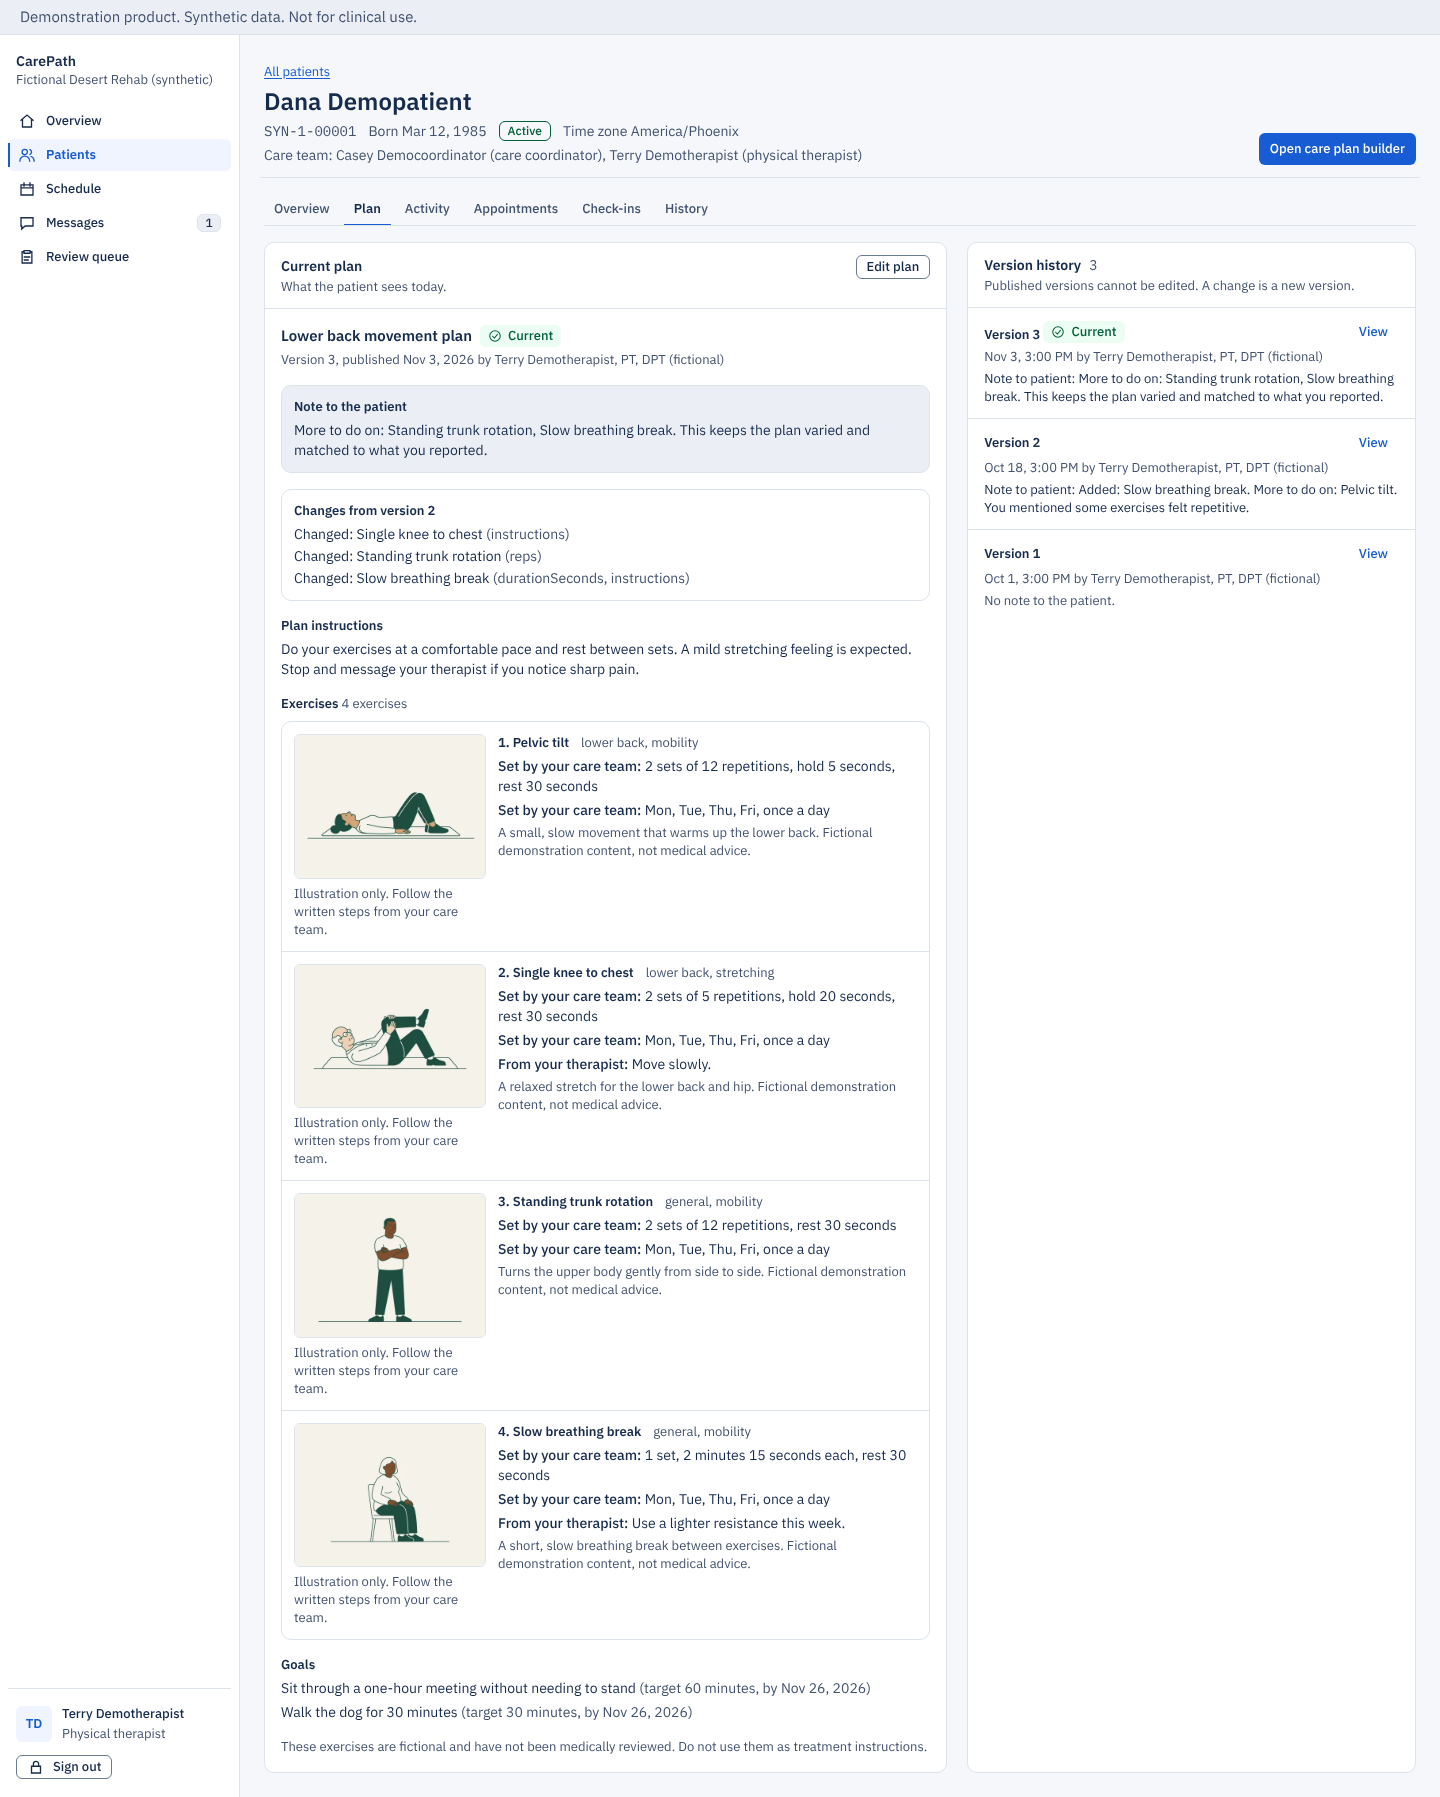
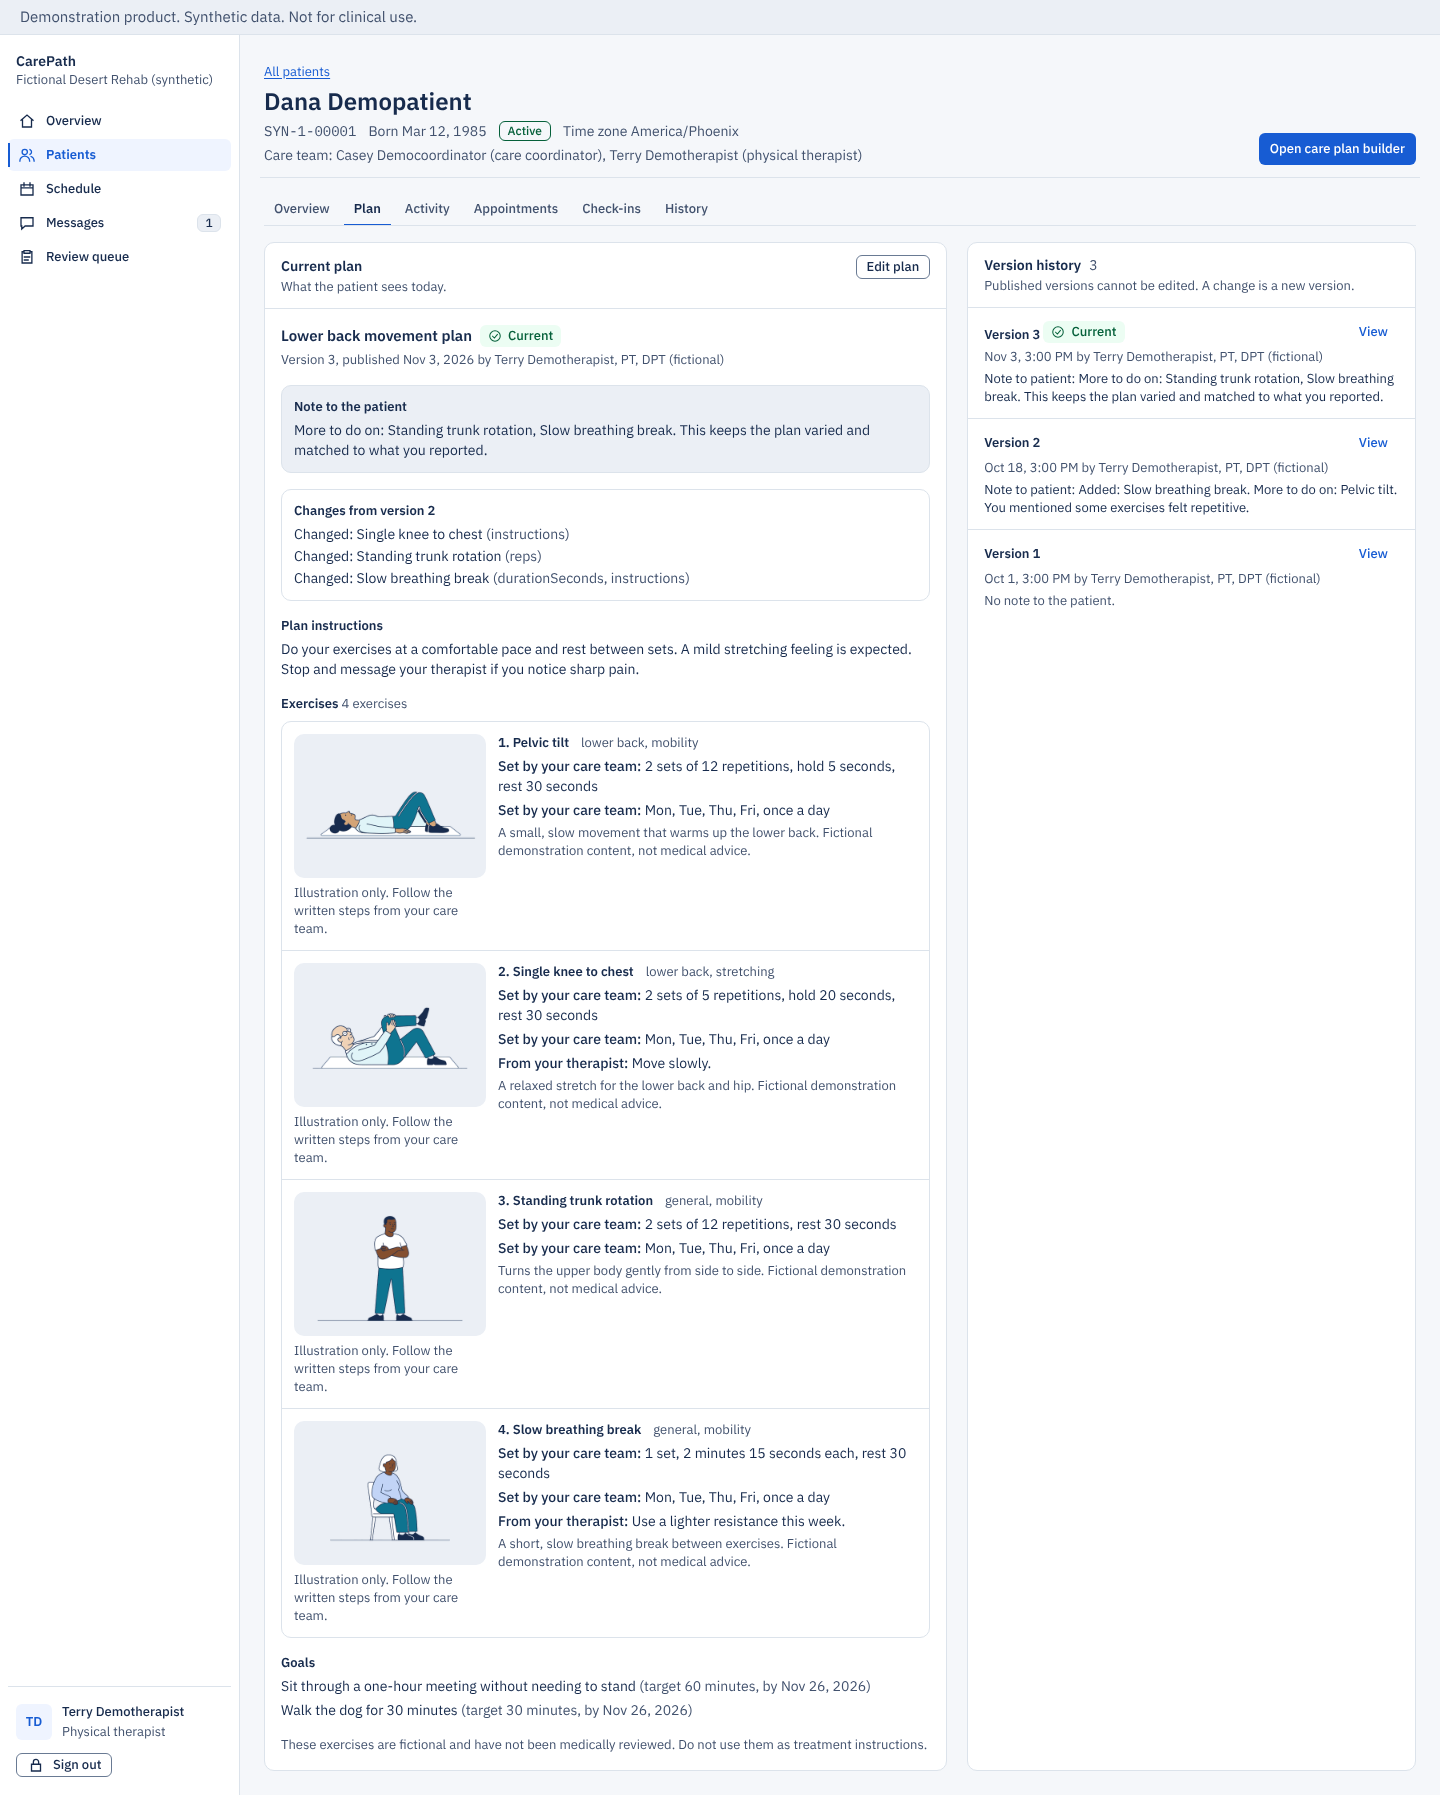
docs: D-WP-1 progress and gate output; after-set from the gate run
docs/design/after/d-wp-1 is replaced by the capture the passing gate made
on this branch (after the rebase on D-WP-7, so the illustrations are the
transparent ones). Same command, seed anchor and fixed clock.

Claude-Session: https://claude.ai/code/session_014v9e5gMfiV1hcVwHeYzrH2

diff --git a/docs/PROGRESS.md b/docs/PROGRESS.md
@@ -24,6 +24,7 @@ Date: 2026-11-20. Synthetic data only; not for clinical use.
 - WP 5.1 (branch `wp/5.1`): AI pipeline in `packages/ai` (ADR-5, ADR-6): provider interface, deterministic provider, optional Anthropic provider over `fetch`, versioned prompts, strict output schemas with source references, consent gate, rate-limit hook, redaction with an outbound canary, timeout and bounded retry, token and cost record, evidence verifier interface, injection set, `pnpm ai:eval` (gate output below). Includes WP 5.5's 25 cases after opus review.
 - WP 5.4 batch 1 (branch `wp/5.4`): `@carepath/fhir` mappers for Organization, Practitioner, Patient, CarePlan (one per published version), Goal, Observation; collection Bundle export; three validation layers (Medplum `validateResource`, CarePath checks, duplicates); import planning with itemised OperationOutcome; `GET /patients/:patientId/fhir/export` and `POST /fhir/import`; `pnpm synthea:demo` and three committed Synthea patient bundles plus the practitioner bundle; `docs/evaluation/fhir-validation.md`. Official HL7 validation not performed (package hosts blocked). Batch 2 followed in WP 5.4b (gate output below).
 - WP 5.4b FHIR batch 2 (branch `wp/5.4b`): mappers for Condition, Appointment, Encounter (visits that took place, AMB or VR) and DocumentReference (one per signed ClinicalNoteVersion: the signed version docStatus final, each amendment docStatus amended with relatesTo replaces, LOINC 11506-3 or 34117-2, custodian = clinic; drafts are never read); Goal.addresses and Observation.encounter now written; batch 2 checks (con-3/4/5, app-1 to app-4, per-1, us-core-6, custodian, export rules for visits and signed notes); import allow-list adds Encounter and Condition (Appointment and DocumentReference export only, skipped and listed); 24 new broken fixtures (55 of 55 fail with the expected rule); `scripts/fhir-export-check.ts` exports every seeded patient (40 of 40 pass); `pnpm synthea:demo` re-run (bundles identical; 47 encounters, 54 conditions now imported, re-import 409 with 42 duplicates); `docs/evaluation/fhir-validation.md` updated for all ten resources. Official HL7 validation still not performed (gate output below).
+- D-WP-1 tokens, type and capture tooling (branch `wp/d1`): DR-001 colour set as one map for both themes (all roles including link, selected, critical, accent, AI, `chart-1..8`, `seq-1..7`, `div-1..5`), patient and clinician type scales and `textExtra` roles, IBM Plex Sans 400/400 italic/500/600 and Plex Mono 400 with Source Serif 4 removed, scrim and overlay shadow on `ink`, token tests rewritten per DR-001 section 8, `apps/web/scripts/design-capture.mjs` with its probe, and the tokens-only capture in `docs/design/after/d-wp-1/` (gate output below).
 
 ## Outstanding
 
@@ -856,3 +857,47 @@ Worktree `/home/claude/wt/d7`, branch `wp/d7`. Image work is in `docs/design/aft
 - Part 2: six exercise pictures generated in the new palette wording on plain white (quad-set, heel-slide, straight-leg-raise, upper-trap-stretch, towel-reach-behind, walking-program), then mapped to the same recolour as Part 1. 6 accepted, 1 rejected (towel-reach-behind try 1: arm covered the face), 7 generations, 350 of 600 credits. Flagged for the reviewer: upper-trap-stretch shows a backless stool with the legs turned to one side; towel-reach-behind now shows a side view with the towel held low, not a reach over the shoulder.
 - Wiring: `exercise-media.ts` has the six new entries with plain alt text; `illustration.tsx` picture container is now a `bg-surface-sunken` tile, `rounded-container`, no border; the caption "Illustration only. Follow the written steps from your care team." is unchanged. `asset-manifest.json` has 25 assets with prompts, seeds, bytes, dimensions and licensing "not verified". The seed text changed, so the seed hash changes.
 - Not done: no vector trace (closed in WP 3.5); no medical review of the pictures (still "generated, not medically reviewed").
+
+### D-WP-1 (tokens, type and capture tooling)
+
+Worktree `/home/claude/wt/d1`, branch `wp/d1`, rebased on main after D-WP-0, D-WP-3, WP 5.4b, D-WP-7 and the web-lock and ephemeral-port fixes. Dependency commit (own commit): `@fontsource/source-serif-4` removed from `@carepath/ui`.
+
+- `packages/ui/src/tokens/tokens.ts`: the DR-001 values from `docs/design/tokens-final.json`, one palette for `patient` and `clinician` (`ColourTokens` gains the `meta.extraKeys`), density per `design-tokens.md` section 5 plus `textExtra` (data value, notes, page, section and component titles, overline), `fonts.serif` kept as the sans stack so old references resolve, `scrim` and `elevation.overlay` on `rgb(23 43 77)`. `tokens.css` regenerated; `preset.css` exposes every new colour and text role as a Tailwind utility (`bg-ai-bg`, `text-link`, `bg-selected-bg`, `text-data-value`, and so on).
+- `contrastPairs` follows DR-001 section 8: `link` replaces `primary` as text, `selected-ink` on `selected-bg` replaces the old tint pair, and the pairs of `design-tokens.md` sections 6.1 and 6.2 are added (93 pairs per theme, all pass).
+- `contrast.test.ts`: DR-001 values; the two colour maps are equal; `tokens.ts` equals `tokens-final.json` (colours, density, `textExtra`, fonts, overlay); scales `[15,17,20,24,32,40]` and `[12,13,14,15,18,24]` with every role on its scale; Plex Sans headings in both themes and no "Serif" in any token or the generated CSS; `fonts.ts` loads exactly the five DR-001 faces; "status tokens are not brand blue"; `ai-*` saturation 0.35 or less; "contains no warm neutral"; scrim and shadow derived from `ink`. "limits blue to focus and info" and "uses serif headings for patients only" are deleted.
+- Components: only `AIDraftBlock` changed (`bg-ai-bg`, DR-001 section 8); no component depended on a removed token. The gallery's colour and type copy no longer mentions forest or Source Serif and shows the new roles; `design-system-screenshots.mjs` checks Plex Sans 600 instead of the serif. `docs/design-system/README.md` has the new palette and font text; `components.md` colour words updated. The favicon uses `accent` (the brand-mark token).
+- Capture tooling: `apps/web/scripts/design-capture.mjs` (with `scripts/design-capture.sh` for database, build and servers) captures the 40 baseline screens at 375, 390, 768, 1024, 1440 and 1920 with the baseline file names and writes `_probe.json` (overflow, computed backgrounds, warm backgrounds with status and chart tokens listed apart, targets under 24 px and under the theme floor with the first offenders named, axe serious or critical at 375, 768 and 1440). `SCREENS`, `WIDTHS` and `PROBE_FAIL_ON` serve later packages. All six widths of a screen show the same state (the viewport is resized), so the session and discomfort chain runs once on `patient.flare` instead of rotating personas.
+- `docs/design/after/d-wp-1/`: 240 images and `_probe.json` from the gate's own capture run on this branch (same seed anchor and fixed clock as the baseline). Probe: no warm background on any screen; 18 images carry `warning-bg` (chips and banners, a status token, hue 53); horizontal overflow on the same 15 images as the baseline (admin patients, clinician schedule and record appointments at 375, 390, 768: layout work for D-WP-6, D-WP-14, D-WP-15); one axe serious finding, `target-size` on `patient-reschedule-375` (4 nodes), seen now because axe runs at 375 (the baseline ran it at 1440 only), left for D-WP-11 and D-WP-2.
+
+Gate: `scripts/gate-wp-d1.sh` exit 0 (token tests, `contrast.mjs --strict`, typecheck, lint and format of owned paths, capture with `PROBE_FAIL_ON=warm`, `pnpm verify`, clean tree). Tail:
+
+```
+==> contrast.mjs --strict on tokens-final.json
+### theme: patient  (84 pairs, 0 below threshold, 0 missing)
+### theme: clinician  (84 pairs, 0 below threshold, 0 missing)
+contrast.mjs --strict: exit 0
+design-capture: 240 images in /home/claude/wt/d1/.data/capture-d-wp-1
+  warm backgrounds (not a status or chart token): 0 images
+  warm status or chart token backgrounds (allowed): 18 images
+  horizontal overflow: 15 images
+  axe serious or critical (at 375, 768, 1440): 1 images
+  interactive targets under 24 px: 219 images
+  interactive targets under the theme floor: 225 images
+packages/ui test:       Tests  227 passed (227)
+apps/api test:       Tests  222 passed (222)
+  25 skipped
+  53 passed (5.3m)
+==> docs/ unchanged by the run
+verify: PASSED
+==> git status --porcelain
+(clean)
+D-WP-1 gate: PASSED
+```
+
+Deviations and open points:
+- Output folder is `docs/design/after/d-wp-1/` (lower case, as the orchestrator asked); the rebuild plan row says `D-WP-1`.
+- The probe's warm rule (hue 25 to 65, saturation above 0.10) also matches `warning-bg` `#FEF7C3`, which DR-001 kept on purpose. The probe therefore reports status, chart and accent token colours separately and fails only on other warm colours. The probe reads computed CSS backgrounds only, not pixels inside images.
+- `apps/web/components/illustration.tsx` was not touched (D-WP-7 owns it and has already changed it). `apps/web/app/icon.svg` and `docs/design-system/components.md` were outside the listed paths and were edited for the colour change only.
+- Interaction-state rules in `design-tokens.md` section 3 (hover `primary-subtle`, selected edge bar, outline secondary button) are not applied to components; that is D-WP-2. Heading `h4` weight 500 for patients is not applied either (the `Heading` component uses one weight).
+- The baseline capture script was not in the repository, so this one was written from the audit's description; its file names match the baseline, its states are close but not identical (one persona for the session chain, `/review-queue` without a task selected at 1440).
+
